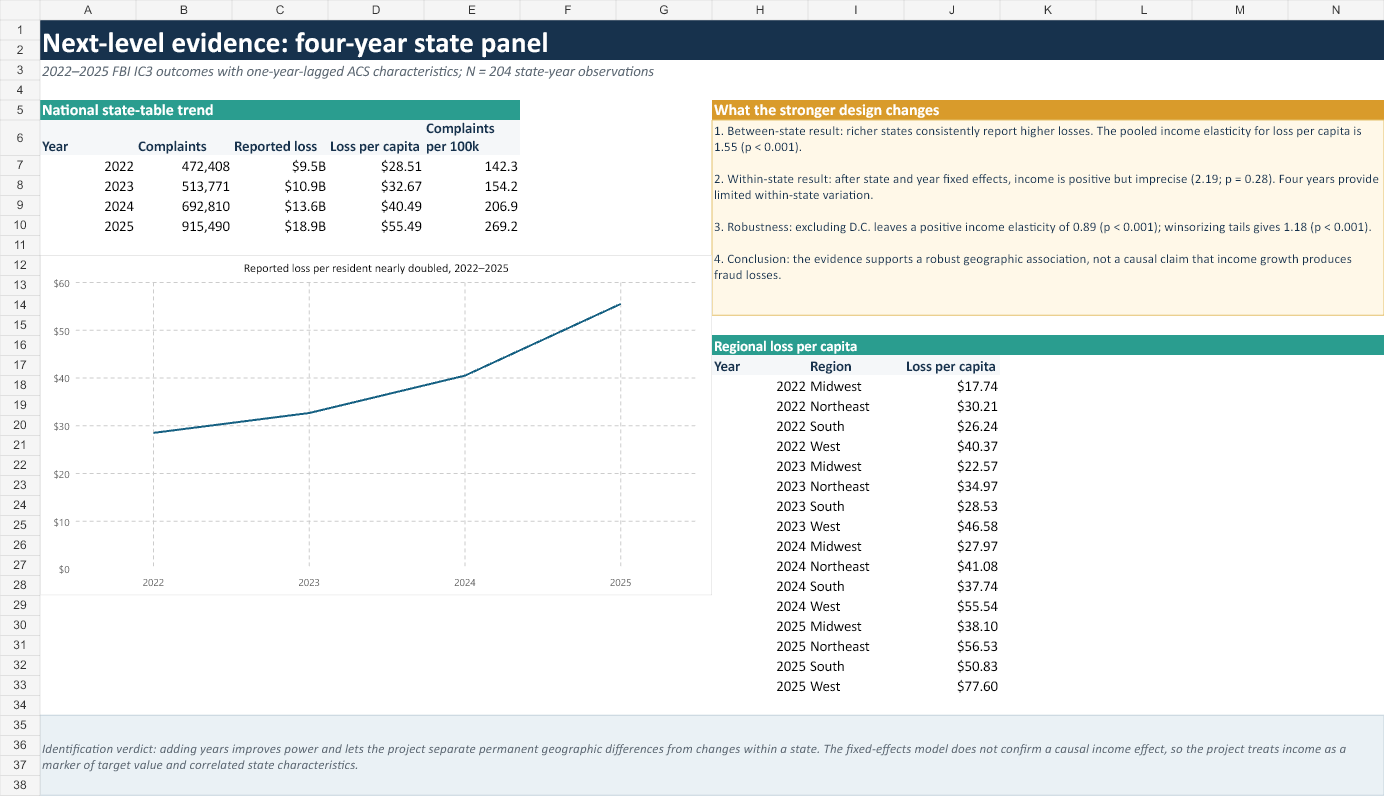
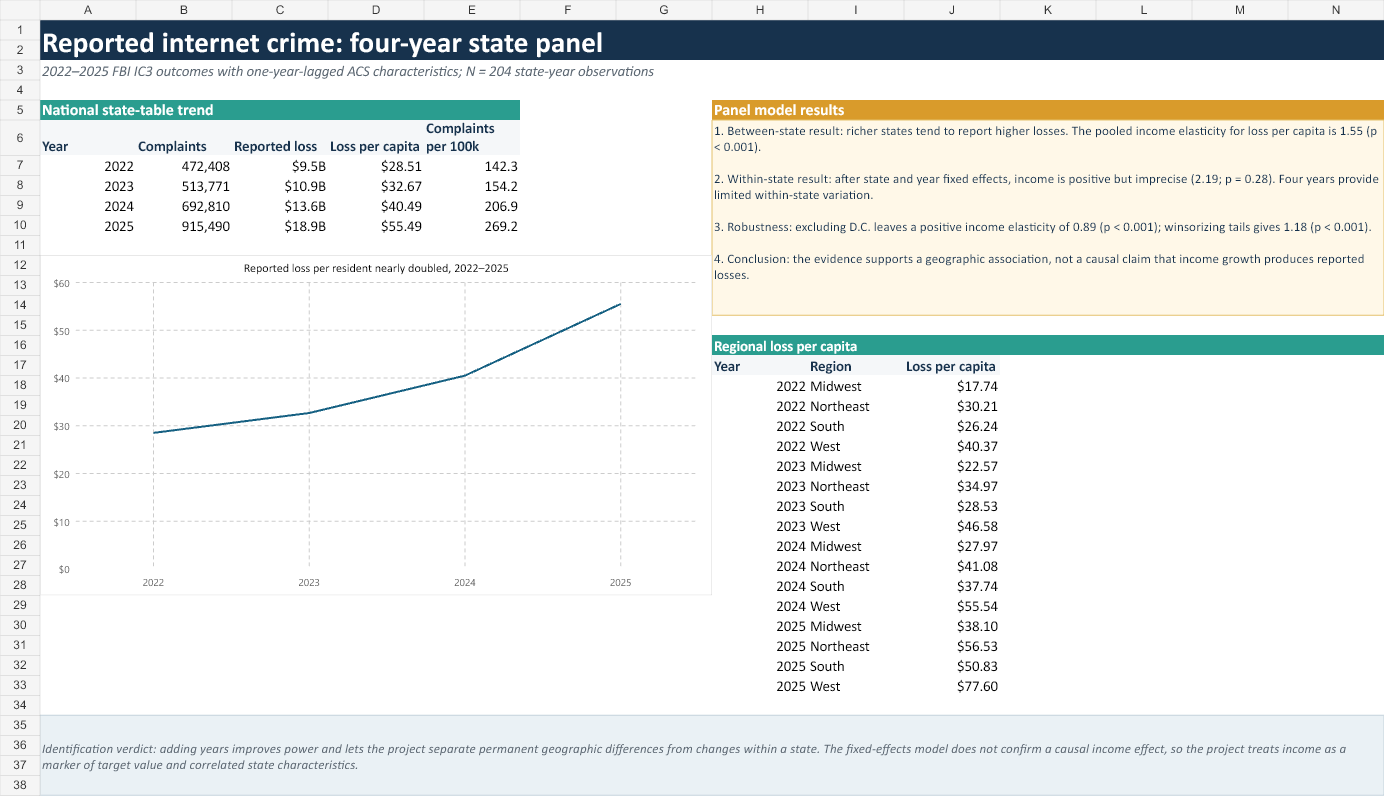
Correct internet-crime terminology and refresh verified workbook previews

diff --git a/PUBLISHING_GUIDE.md b/PUBLISHING_GUIDE.md
@@ -1,12 +1,8 @@
 # Publication checklist
 
-Scam Geography is an individual economics project by **Om Patel**. Keep the repository private until you have completed the checks below and are ready to publish it.
+Scam Geography is an economics project by **Om Patel**. Use this checklist when preparing future updates.
 
 [Project overview](README.md) · [Data dictionary](DATA_DICTIONARY.md)
-
-## Release hold
-
-The workbook and preview images still use fraud terminology for all-category IC3 internet-crime totals. Update those labels and source notes consistently, regenerate the previews, and retest the workbook before making the repository public.
 
 ## Test the reader experience
 
@@ -29,7 +25,7 @@ If results appear unchanged, check that Excel calculation is set to Automatic an
 - [ ] All six preview images display on GitHub.
 - [ ] The workbook download and data links work.
 - [ ] The README agrees with the workbook's model estimates and limitations.
-- [ ] Reported complaints are not described as all fraud incidents or unique victims.
+- [ ] Reported complaints are not described as all internet-crime incidents or unique victims.
 - [ ] Associations and scenario calculations are not described as causal effects or forecasts.
 - [ ] The data dictionary explains units, lagged ACS timing, and rate denominators.
 - [ ] No Excel lock files beginning with `~$`, personal files, or credentials are included.

diff --git a/README.md b/README.md
@@ -8,8 +8,6 @@ Why do some states report more internet-crime losses per resident than others?
 
 Compare states in Excel to examine reported complaint rates, losses per complaint, and their relationship with income, internet access, and age structure.
 
-**Release status:** Private review draft. The workbook and preview images still need terminology updates to match the scope described below.
-
 The data use IC3's state-level internet-crime totals, not a fraud-only subset. These totals include fraud and other reported offenses. See the [2025 IC3 report](https://www.ic3.gov/AnnualReport/Reports/2025_IC3Report.pdf) for the distinction between all complaints and cyber-enabled fraud.
 
 **[Get the interactive workbook](Scam_Geography_Interactive_Economics_Project.xlsx)** · [Explore the data](data/state_panel_2022_2025.csv) · [Variable definitions](DATA_DICTIONARY.md)
